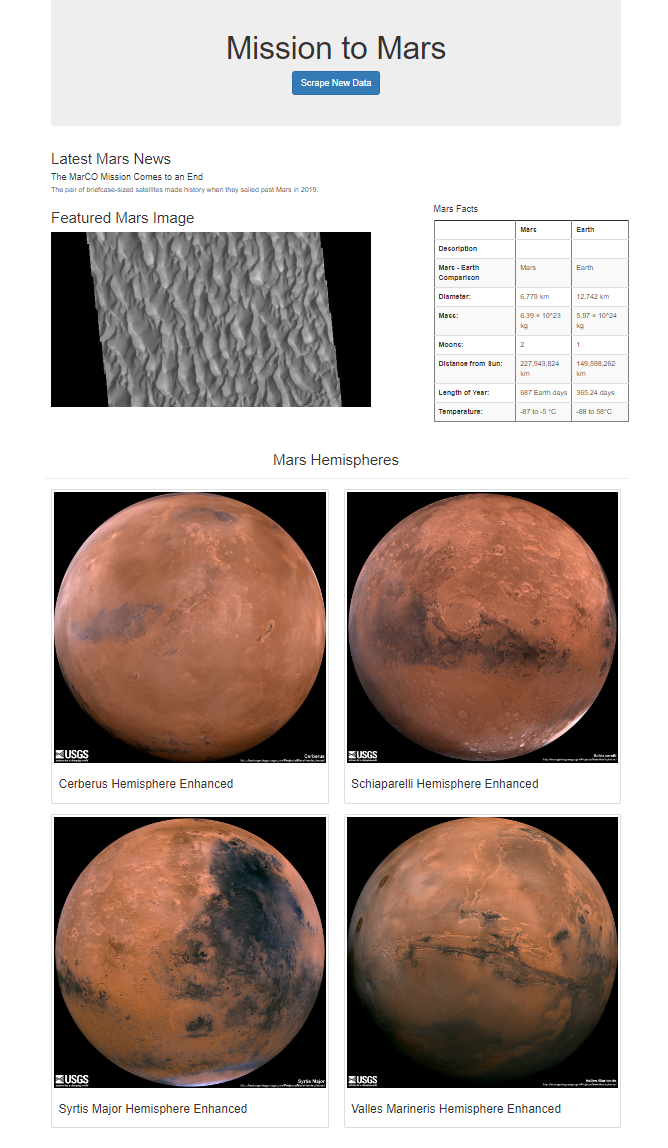
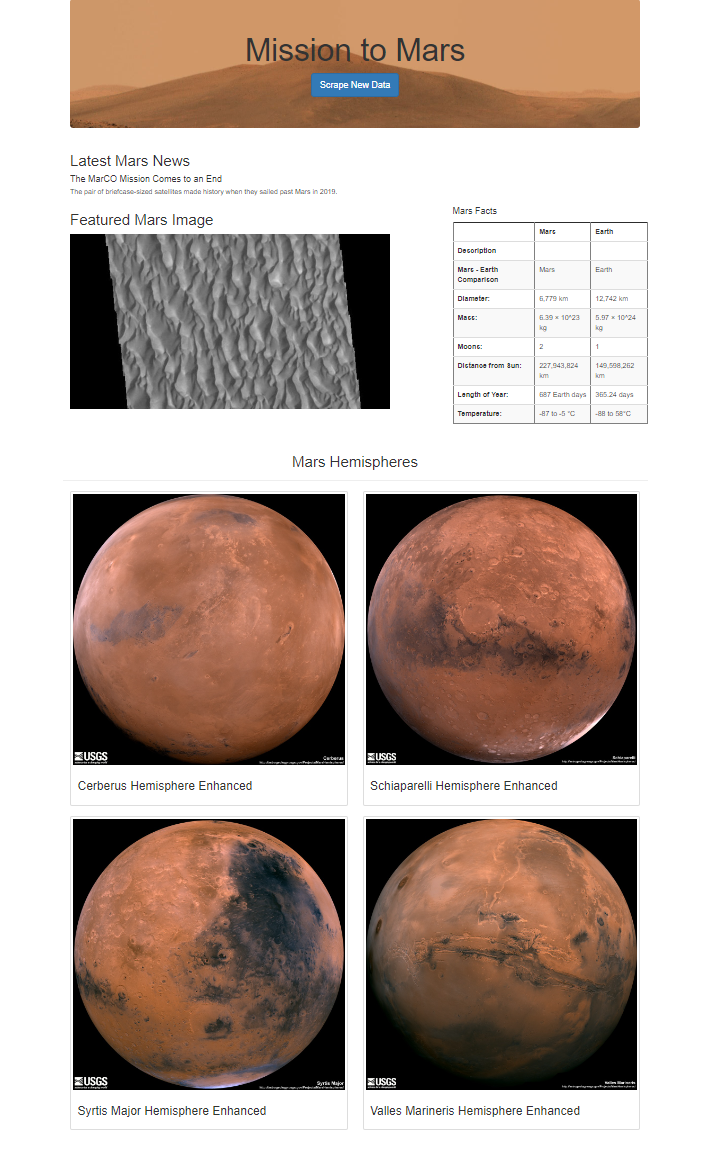
Updating a png file and index.html file

diff --git a/templates/index.html b/templates/index.html
@@ -13,7 +13,7 @@
   <body>
     <div class="container">
       <!-- Add Jumbotron to Header -->
-      <div class="jumbotron text-center">
+      <div class="jumbotron text-center" style="background-image: url(https://mars.nasa.gov/system/news_items/main_images/8944_1-PIA24546-1280.jpg);">
         <h1>Mission to Mars</h1>
         <!-- Add a button to activate scraping script -->
         <p><a class="btn btn-primary btn-lg" href="/scrape" role="button">Scrape New Data</a></p>
